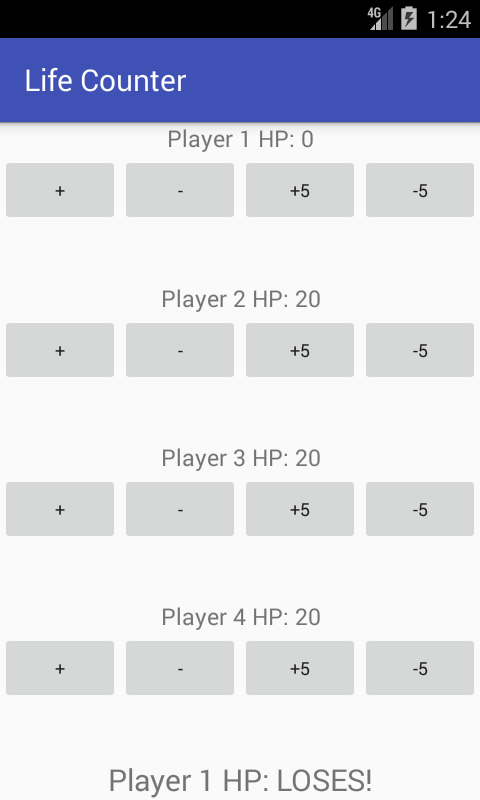
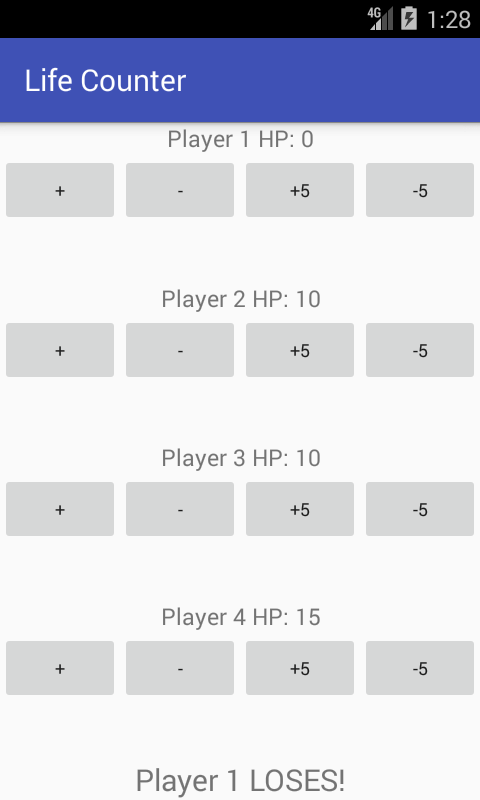
Fix loser's text and add new screenshot

diff --git a/app/src/main/java/edu/washington/bennyn/lifecounter/MainActivity.kt b/app/src/main/java/edu/washington/bennyn/lifecounter/MainActivity.kt
@@ -54,7 +54,7 @@ class MainActivity : AppCompatActivity() {
                     HPs()[button.tag as Int].text = HPs()[button.tag as Int].text.substring(0, 13) + result
 
                     if (result.toInt() <= 0) {
-                        loserText.text = HPs()[button.tag as Int].text.substring(0, 13) + "LOSES!"
+                        loserText.text = HPs()[button.tag as Int].text.substring(0, 9) + "LOSES!"
                     }
 
                     checkLosers()
